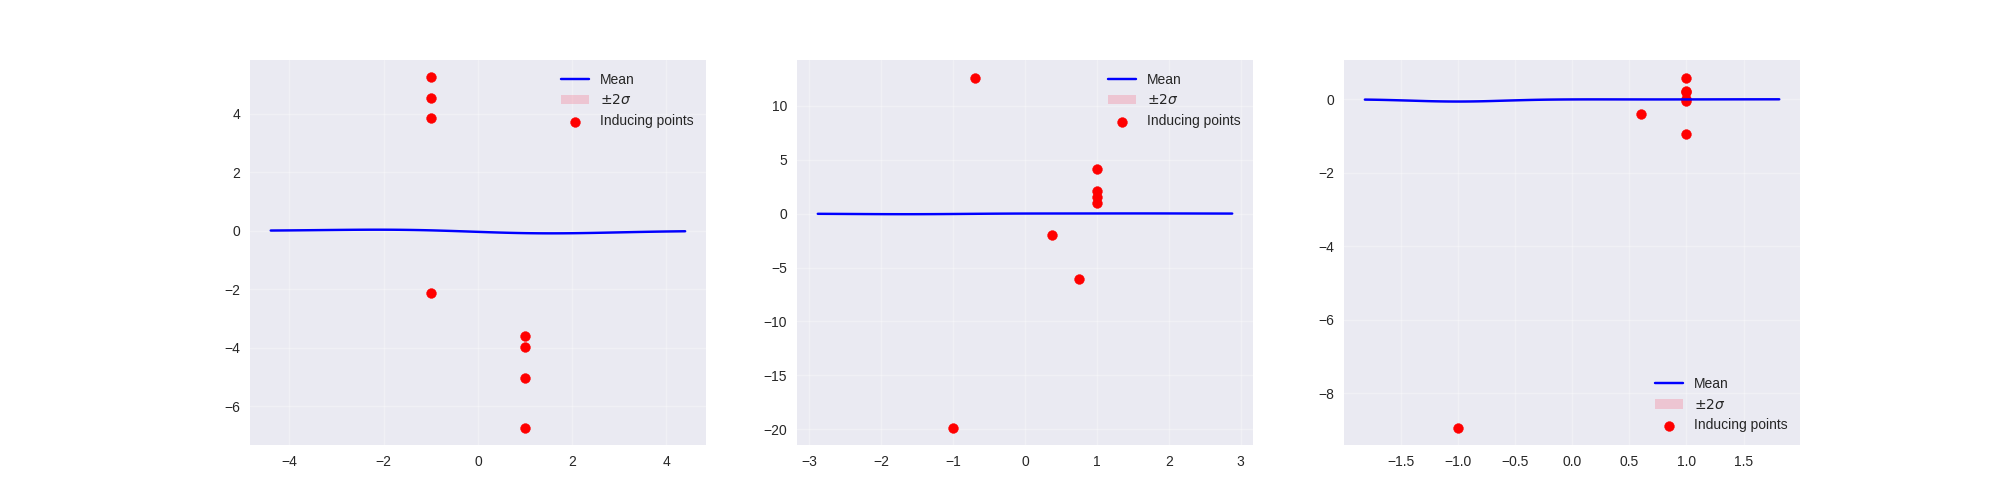
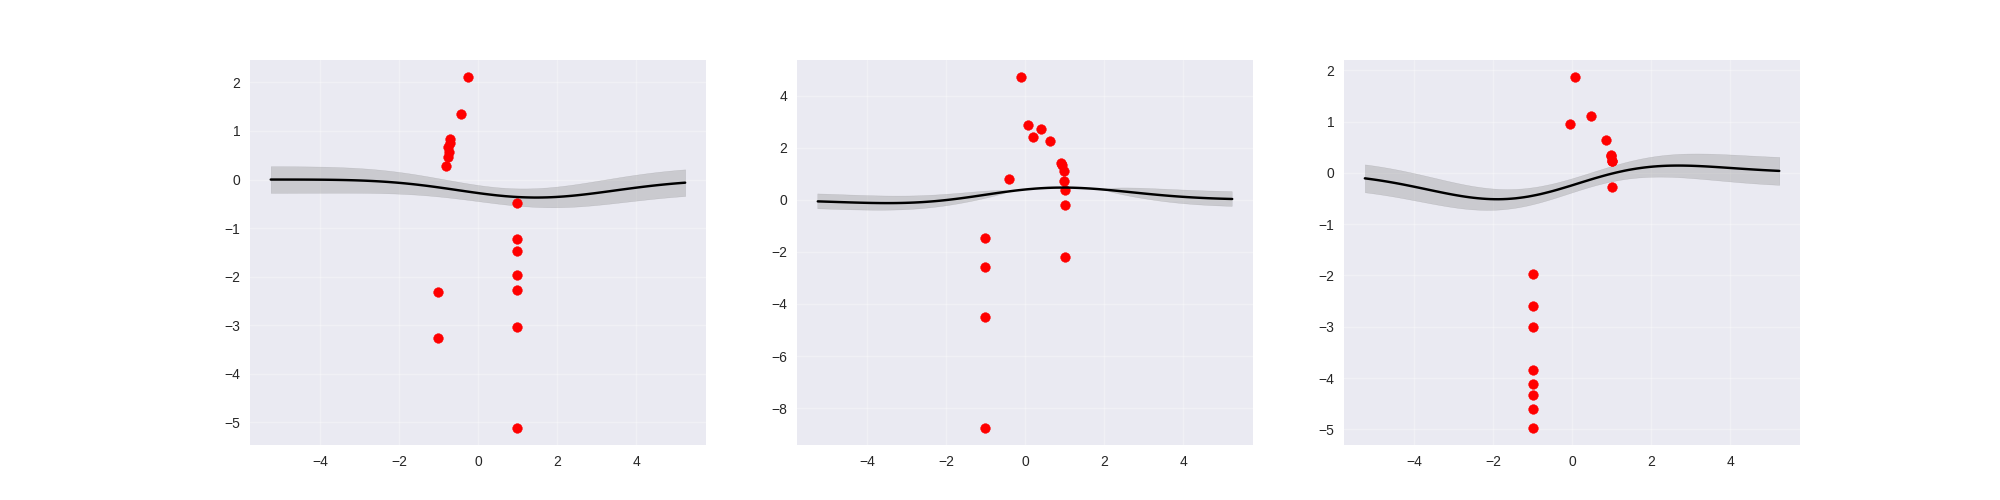
still problems

diff --git a/src/gp_kan/dense_layer.py b/src/gp_kan/dense_layer.py
@@ -4,6 +4,7 @@ from typing import Callable, Dict, Optional
 import jax
 import jax.numpy as jnp
 import matplotlib.pyplot as plt
+import numpy as np
 
 from src.gp_kan.normal_dist import NormalDist, get_device_config, setup_jax_device
 
@@ -347,25 +348,21 @@ class DenseGPLayer:
     def plot_neuron(
         self, axes: plt.Axes, I_idx: int, O_idx: int, num_pts: int = 100
     ) -> None:
-        """Plot a single neuron's function."""
         z = self.get_z()[I_idx, O_idx, :]
+        h = self.h[I_idx, O_idx, :]
+        s_val = self.get_s()[I_idx, O_idx]
+        length_scale_val = self.get_length_scale()[I_idx, O_idx]
         jitter = self.get_jitter()[I_idx, O_idx]
 
-        x_plot = jnp.linspace(
-            jnp.min(z) - 2 * self.length_scale,
-            jnp.max(z) + 2 * self.length_scale,
-            num_pts,
-        )
+        x_min = float(jnp.min(z) - 2 * length_scale_val)
+        x_max = float(jnp.max(z) + 2 * length_scale_val)
+        x_plot = jnp.linspace(x_min, x_max, num_pts)
 
         def covar_func(x1: jax.Array, x2: jax.Array) -> jax.Array:
-            s_val = self.get_s()[I_idx, O_idx]
-            length_scale_val = self.get_length_scale()[I_idx, O_idx]
             return s_val**2 * jnp.exp(-((x1 - x2) ** 2) / (2 * length_scale_val**2))
 
-        # Standard GP variance calculation
         K_hh = build_kernel_mat(z, z, covar_func)
         K_hh_noise = K_hh + (jitter**2) * jnp.eye(self.P)
-
         L = jax.scipy.linalg.cholesky(K_hh_noise)
         L_inv = jax.scipy.linalg.inv(L)
         L_inv_T = jnp.transpose(L_inv, (1, 0))
@@ -373,29 +370,23 @@ class DenseGPLayer:
         k_xh = build_kernel_mat(x_plot, z, covar_func)
         A = k_xh @ L_inv_T
 
-        # Mean
-        h = self.h[I_idx, O_idx, :].reshape(1, self.P)
-        mean = A @ h.T
+        mean = (A @ h.reshape(-1, 1)).flatten()
+        k_xx_diag = jnp.array([covar_func(x, x) for x in x_plot])
+        var = k_xx_diag - jnp.sum(A * A, axis=1)
+        std_dev = jnp.sqrt(var)
 
-        # Variance
-        k_xx = build_kernel_mat(x_plot, x_plot, covar_func)
-        var = jnp.diag(k_xx) - jnp.sum(A * A, axis=1)
-
-        axes.plot(x_plot, mean.flatten(), "b-", label="Mean")
+        axes.plot(np.array(x_plot), np.array(mean), color="black")
         axes.fill_between(
-            x_plot,
-            mean.flatten() - 2 * jnp.sqrt(var),
-            mean.flatten() + 2 * jnp.sqrt(var),
+            np.array(x_plot),
+            np.array(mean) + 2 * np.array(std_dev),
+            np.array(mean) - 2 * np.array(std_dev),
+            color="gray",
             alpha=0.3,
-            label=r"$\pm 2\sigma$",
         )
-        axes.scatter(z, h, c="red", s=50, label="Inducing points")
-        axes.legend()
+        axes.scatter(np.array(z), np.array(h), color="red")
         axes.grid(True, alpha=0.3)
 
     def save_fig(self, path: str, max_neurons_shown: int = 5) -> None:
-        """Save a figure showing neuron functions."""
-
         plot_num = min(max_neurons_shown, self.num_neurons)
 
         num_cols = min(plot_num, 5)
